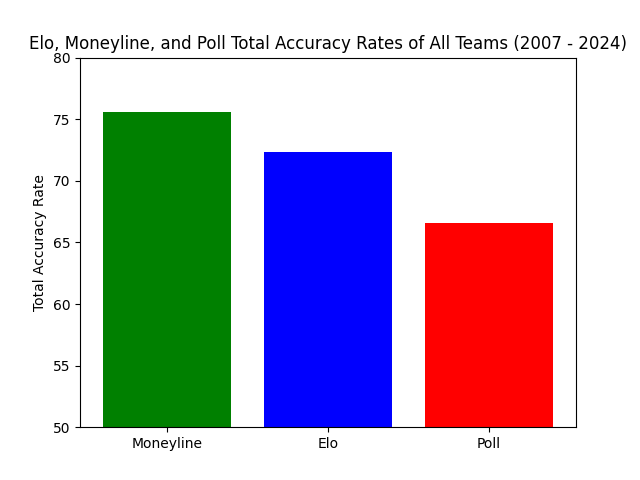
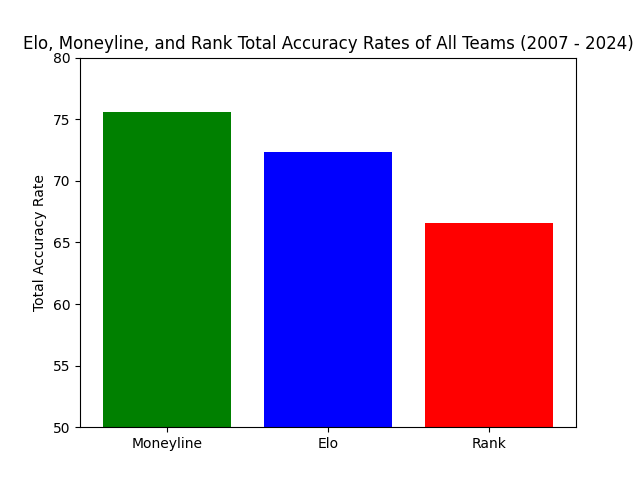
renaming some files

Changed region(s): [[0.0312, 0.0625, 1.0, 0.125], [0.7188, 0.9062, 0.8125, 0.9375]]

diff --git a/accuracy/src/accuracy/emAdjustedPresentation.py b/accuracy/src/accuracy/emAdjustedPresentation.py
@@ -43,8 +43,8 @@ for season in range(2007, 2024):
 
 plt.plot(seasons, elo_accuracy, color="blue", label = "Elo")
 plt.plot(seasons, moneyline_accuracy, color="green", label = "Moneyline")
-plt.plot(seasons, adjusted_elo_accuracy, color = "black", label = "Highest Avg (+73)")
-plt.plot(seasons, adjusted_m, color = "purple", label = "Highest Avg (-125)")
+plt.plot(seasons, adjusted_elo_accuracy, color = "black", label = "Adjusted Elo (+73)")
+plt.plot(seasons, adjusted_m, color = "purple", label = "Adjusted ML (-125)")
 
 plt.xlabel('Season')
 plt.ylabel('Accuracy')
@@ -52,5 +52,5 @@ plt.title('Elo, Adjusted Elo, ML, and Adjusted ML Accuracy of All Teams')
 plt.legend()
 plt.grid(True)
 
-plt.savefig('accuracy/visualizations/display/emAdjustedDisplay.png')
+plt.savefig('accuracy/visualizations/presentation/emAdjustedPresentation.png')
 plt.show()

diff --git a/accuracy/src/accuracy/emp25Total.py b/accuracy/src/accuracy/emp25Total.py
@@ -1,0 +1,29 @@
+import accuracyFunction
+import matplotlib.pyplot as plt
+
+elo_accuracy = []
+moneyline_accuracy = []
+poll_accuracy = []
+
+top25 = list(range(1, 26))
+
+
+e = accuracyFunction.getAccuracy("e", [], [],[], [], top25, top25,"","","","")[0]
+m = accuracyFunction.getAccuracy("m", [], [],[], [], top25, top25, "","","","")[0]
+p = accuracyFunction.getAccuracy("p", [], [],[], [], top25, top25, "","","","")[0]
+
+
+categories = ["Moneyline", "Elo", "Rank"]
+values = [m, e, p]
+colors = ['green', 'blue','red']
+
+plt.bar(categories, values, color=colors)
+
+plt.ylabel('Total Accuracy Rate')
+plt.title('ML, Elo, and Rank Total Accuracy Rates of Top 25 Matchups')
+
+plt.ylim(60, 75)
+
+plt.savefig('accuracy/visualizations/presentation/emp25TotalPresentation.png')
+
+plt.show()

diff --git a/accuracy/src/accuracy/totalAccuracyAdjusted.py b/accuracy/src/accuracy/totalAccuracyAdjusted.py
@@ -18,14 +18,14 @@ m125 = adjustedMoneylineAccuracyFunction.getAccuracy(seasons, [],[],[],[],[],'',
 m140 = adjustedMoneylineAccuracyFunction.getAccuracy(seasons, [],[],[],[],[],'','','','',-140)[0]
 
 
-categories = ["ML", 'ML-125', 'ML-140',"Elo", "AE43", "AE73", "AE88", "Poll"]
+categories = ["ML", 'ML-125', 'ML-140',"Elo", "AE43", "AE73", "AE88", "Rank"]
 values = [m,m125, m140, e, e43, e73, e88, p]
 colors = ['green', 'lightgreen', 'seagreen', 'blue', "steelblue", 'royalblue', 'cornflowerblue','red']
 
 plt.bar(categories, values, color=colors)
 
 plt.ylabel('Total Accuracy Rate')
-plt.title('ML, Adjusted ML, Elo, Adjusted Elo, and Poll Total Accuracy Rates')
+plt.title('ML, Adjusted ML, Elo, Adjusted Elo, and Rank Total Accuracy Rates')
 
 plt.ylim(60, 80)
 

diff --git a/accuracy/src/accuracy/totalAccuracy.py b/accuracy/src/accuracy/totalAccuracy.py
@@ -19,14 +19,14 @@ outList.append(["m"] + list(m))
 outList.append(["p"] + list(p))
 
 
-categories = ["Moneyline","Elo" ,"Poll"]
+categories = ["Moneyline","Elo" ,"Rank"]
 values = [moneyline_accuracy, elo_accuracy, poll_accuracy]
 colors = ['green', 'blue', 'red']
 
 plt.bar(categories, values, color=colors)
 
 plt.ylabel('Total Accuracy Rate')
-plt.title('Elo, Moneyline, and Poll Total Accuracy Rates of All Teams (2007 - 2024)')
+plt.title('Elo, Moneyline, and Rank Total Accuracy Rates of All Teams (2007 - 2024)')
 
 plt.ylim(50, 80)
 

diff --git a/accuracy/src/accuracy/moneylineBuckets.py b/accuracy/src/accuracy/moneylineBuckets.py
@@ -51,7 +51,7 @@ equation_text = f'y = {slope:.2f}x + {intercept:.2f}'
 plt.annotate(equation_text, xy=(labels[0], accuracies[0]), xytext=(labels[0]+0.5, max(accuracies)), verticalalignment='top')
 
 plt.savefig('accuracy/visualizations/moneylineRegression.png')
-plt.savefig('accuracy/visualizations/display/moneylineRegressionDisplay.png')
+plt.savefig('accuracy/visualizations/presentation/moneylineRegressionPresentation.png')
 
 
 plt.show()

diff --git a/accuracy/src/accuracy/moneylinePercentages.py b/accuracy/src/accuracy/moneylinePercentages.py
@@ -26,7 +26,7 @@ plt.ylabel("Accuracy Percentage")
 plt.title("Expected Moneyline Win Percentage vs Actual Accuracy Rate")
 plt.legend()
 plt.savefig('accuracy/visualizations/moneylinePercentages.png')
-plt.savefig('accuracy/visualizations/display/moneylinePercentagesDisplay.png')
+plt.savefig('accuracy/visualizations/presentation/moneylinePercentagesPresentation.png')
 
 plt.show()
 

diff --git a/accuracy/src/accuracy/eloAdjustmentComparisonPresentation.py b/accuracy/src/accuracy/eloAdjustmentComparisonPresentation.py
@@ -18,5 +18,5 @@ plt.xlabel("Home Adjustment")
 plt.ylabel("Accuracy")
 plt.title("Accuracies of Different Home Team Adjustments")
 
-plt.savefig("accuracy/visualizations/display/eloAdjustmentComparisonDisplay.png")
+plt.savefig("accuracy/visualizations/presentation/eloAdjustmentComparisonPresentation.png")
 plt.show()

diff --git a/accuracy/src/accuracy/totalAccuracyPresentation.py b/accuracy/src/accuracy/totalAccuracyPresentation.py
@@ -26,7 +26,7 @@ plt.title('ML, Elo, Adjusted Elo, and Rank Total Accuracy Rates')
 
 plt.ylim(60, 80)
 
-plt.savefig('accuracy/visualizations/display/totalWithAdjustedDisplay.png')
+plt.savefig('accuracy/visualizations/presentation/totalWithAdjustedPresentation.png')
 
 plt.show()
 

diff --git a/accuracy/src/accuracy/emp25Presentation.py b/accuracy/src/accuracy/emp25Presentation.py
@@ -50,6 +50,6 @@ plt.title('Elo, Moneyline, and Rank Accuracy of Top 25 Teams (2007 - 2019)')
 plt.legend()
 plt.grid(True)
 
-plt.savefig('accuracy/visualizations/display/emp25Display.png')
+plt.savefig('accuracy/visualizations/presentation/emp25Presentation.png')
 plt.show()
 
